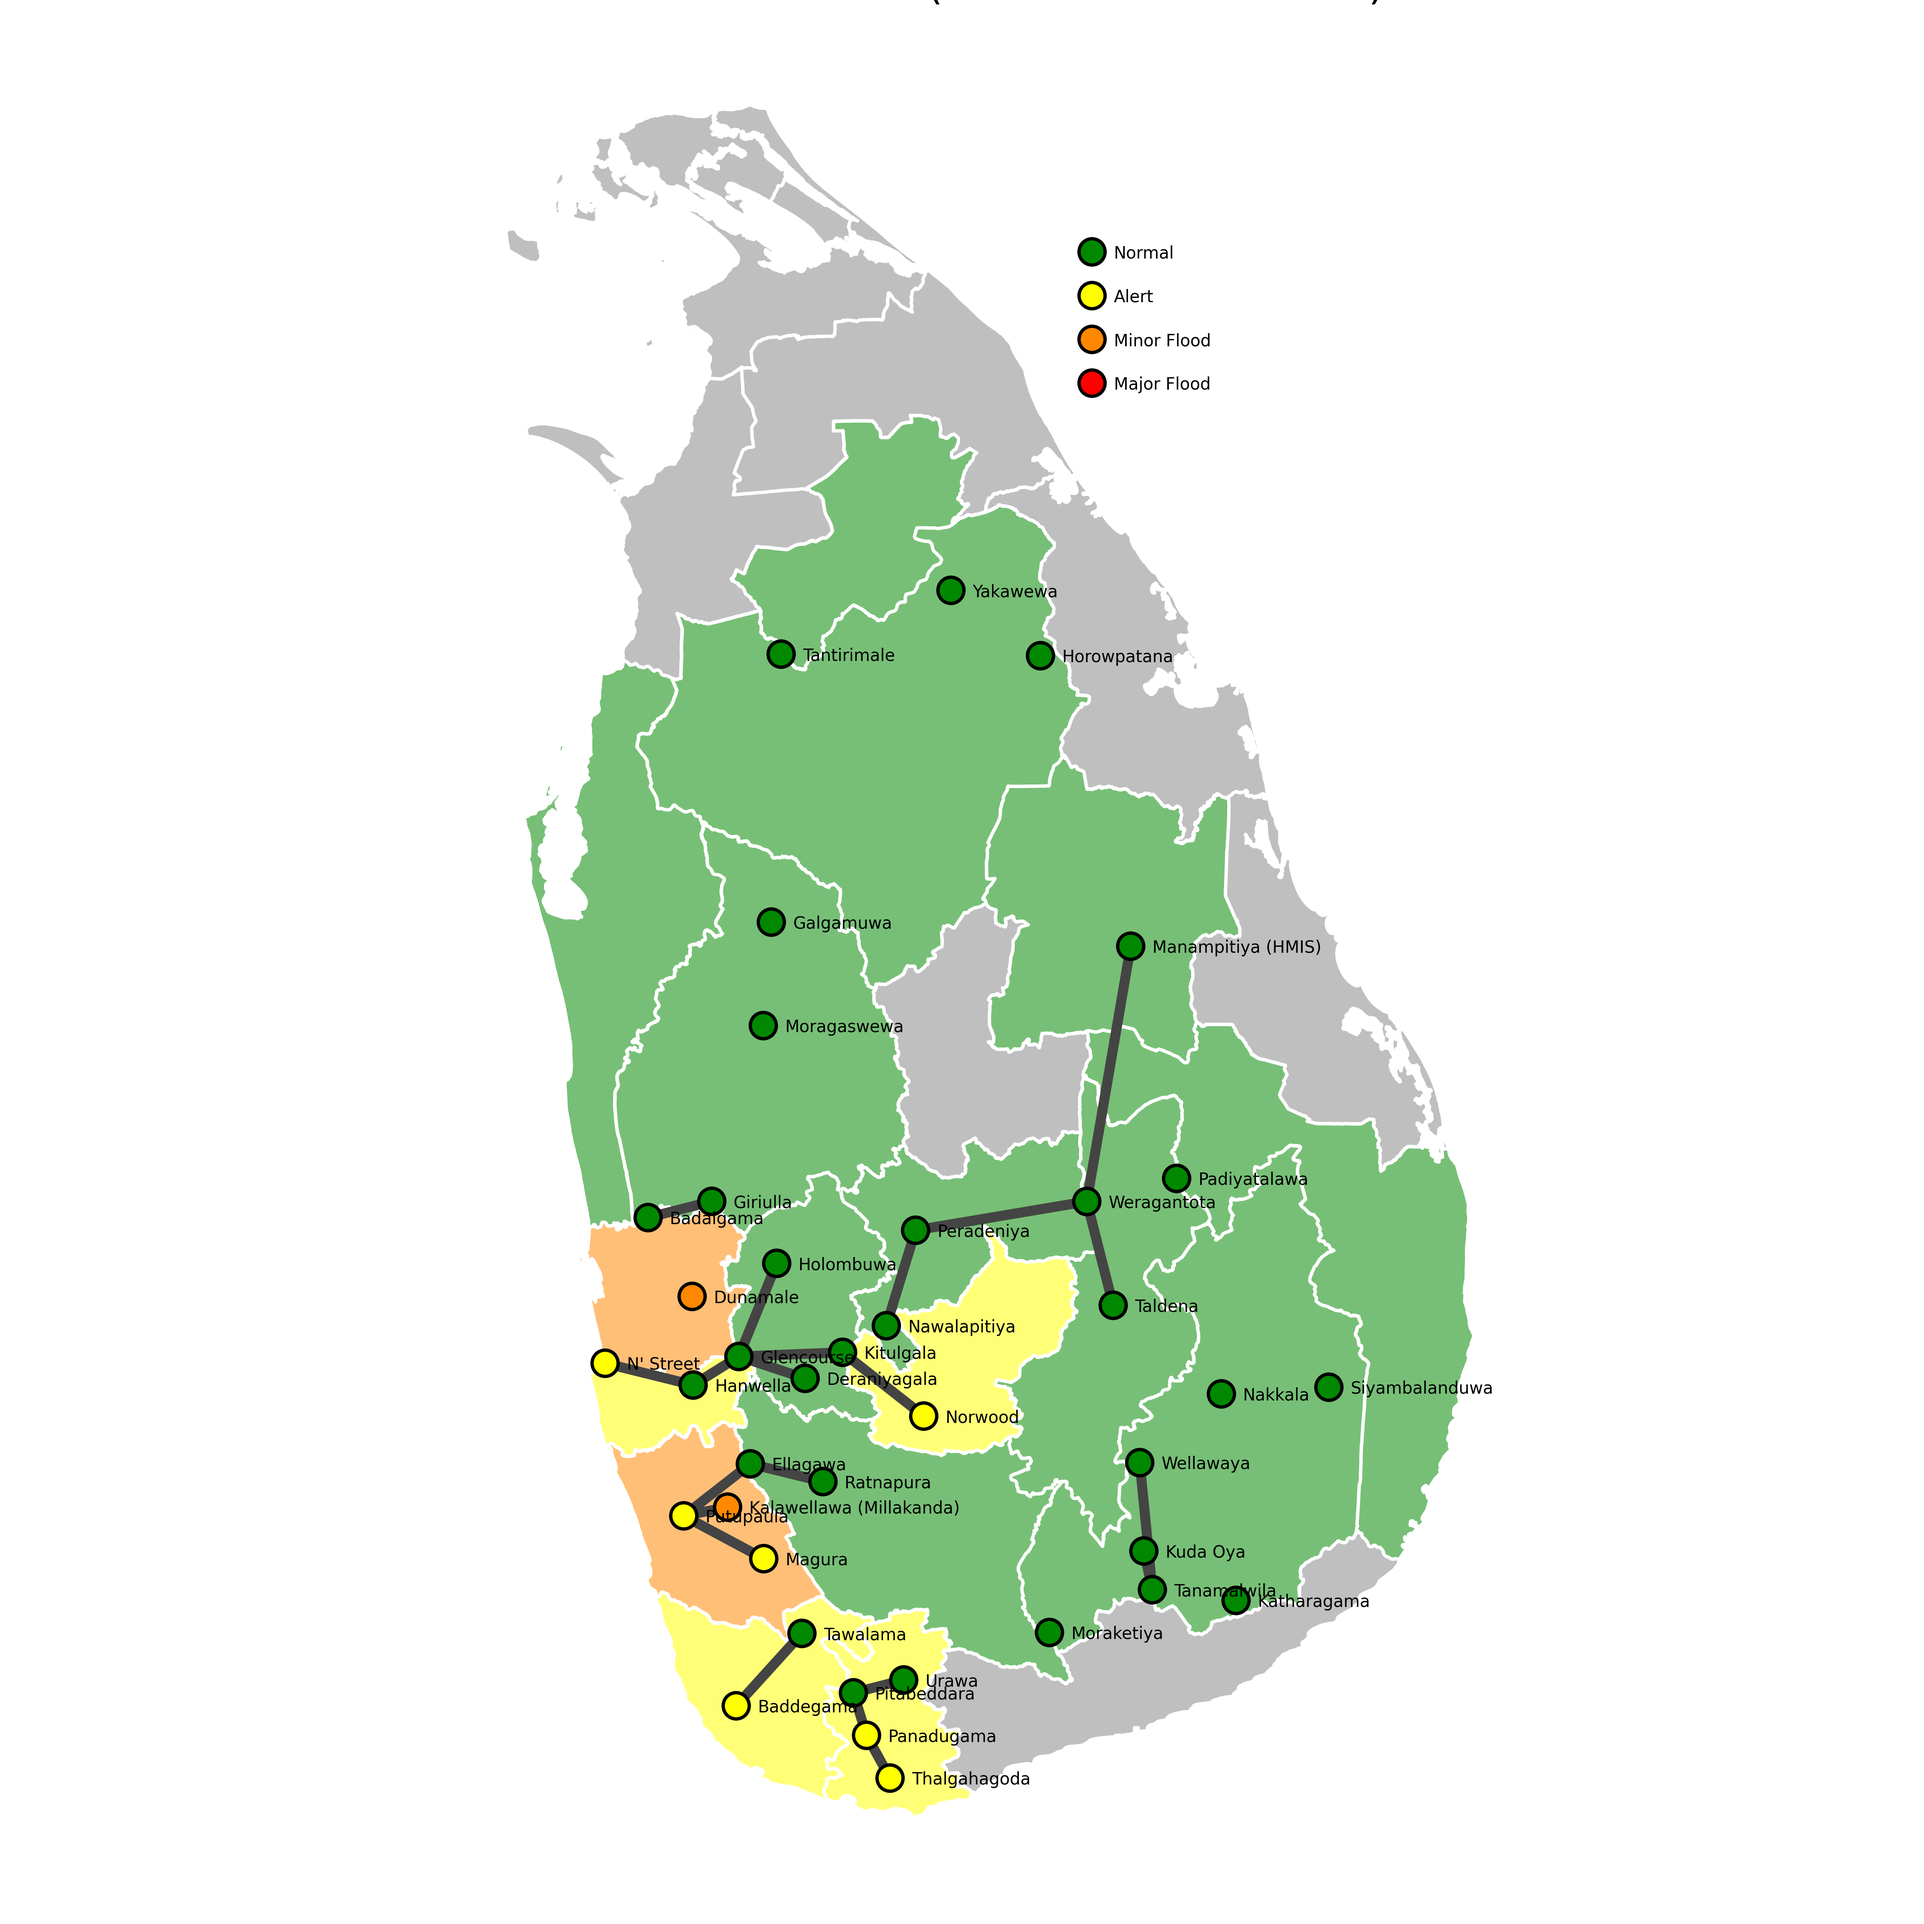
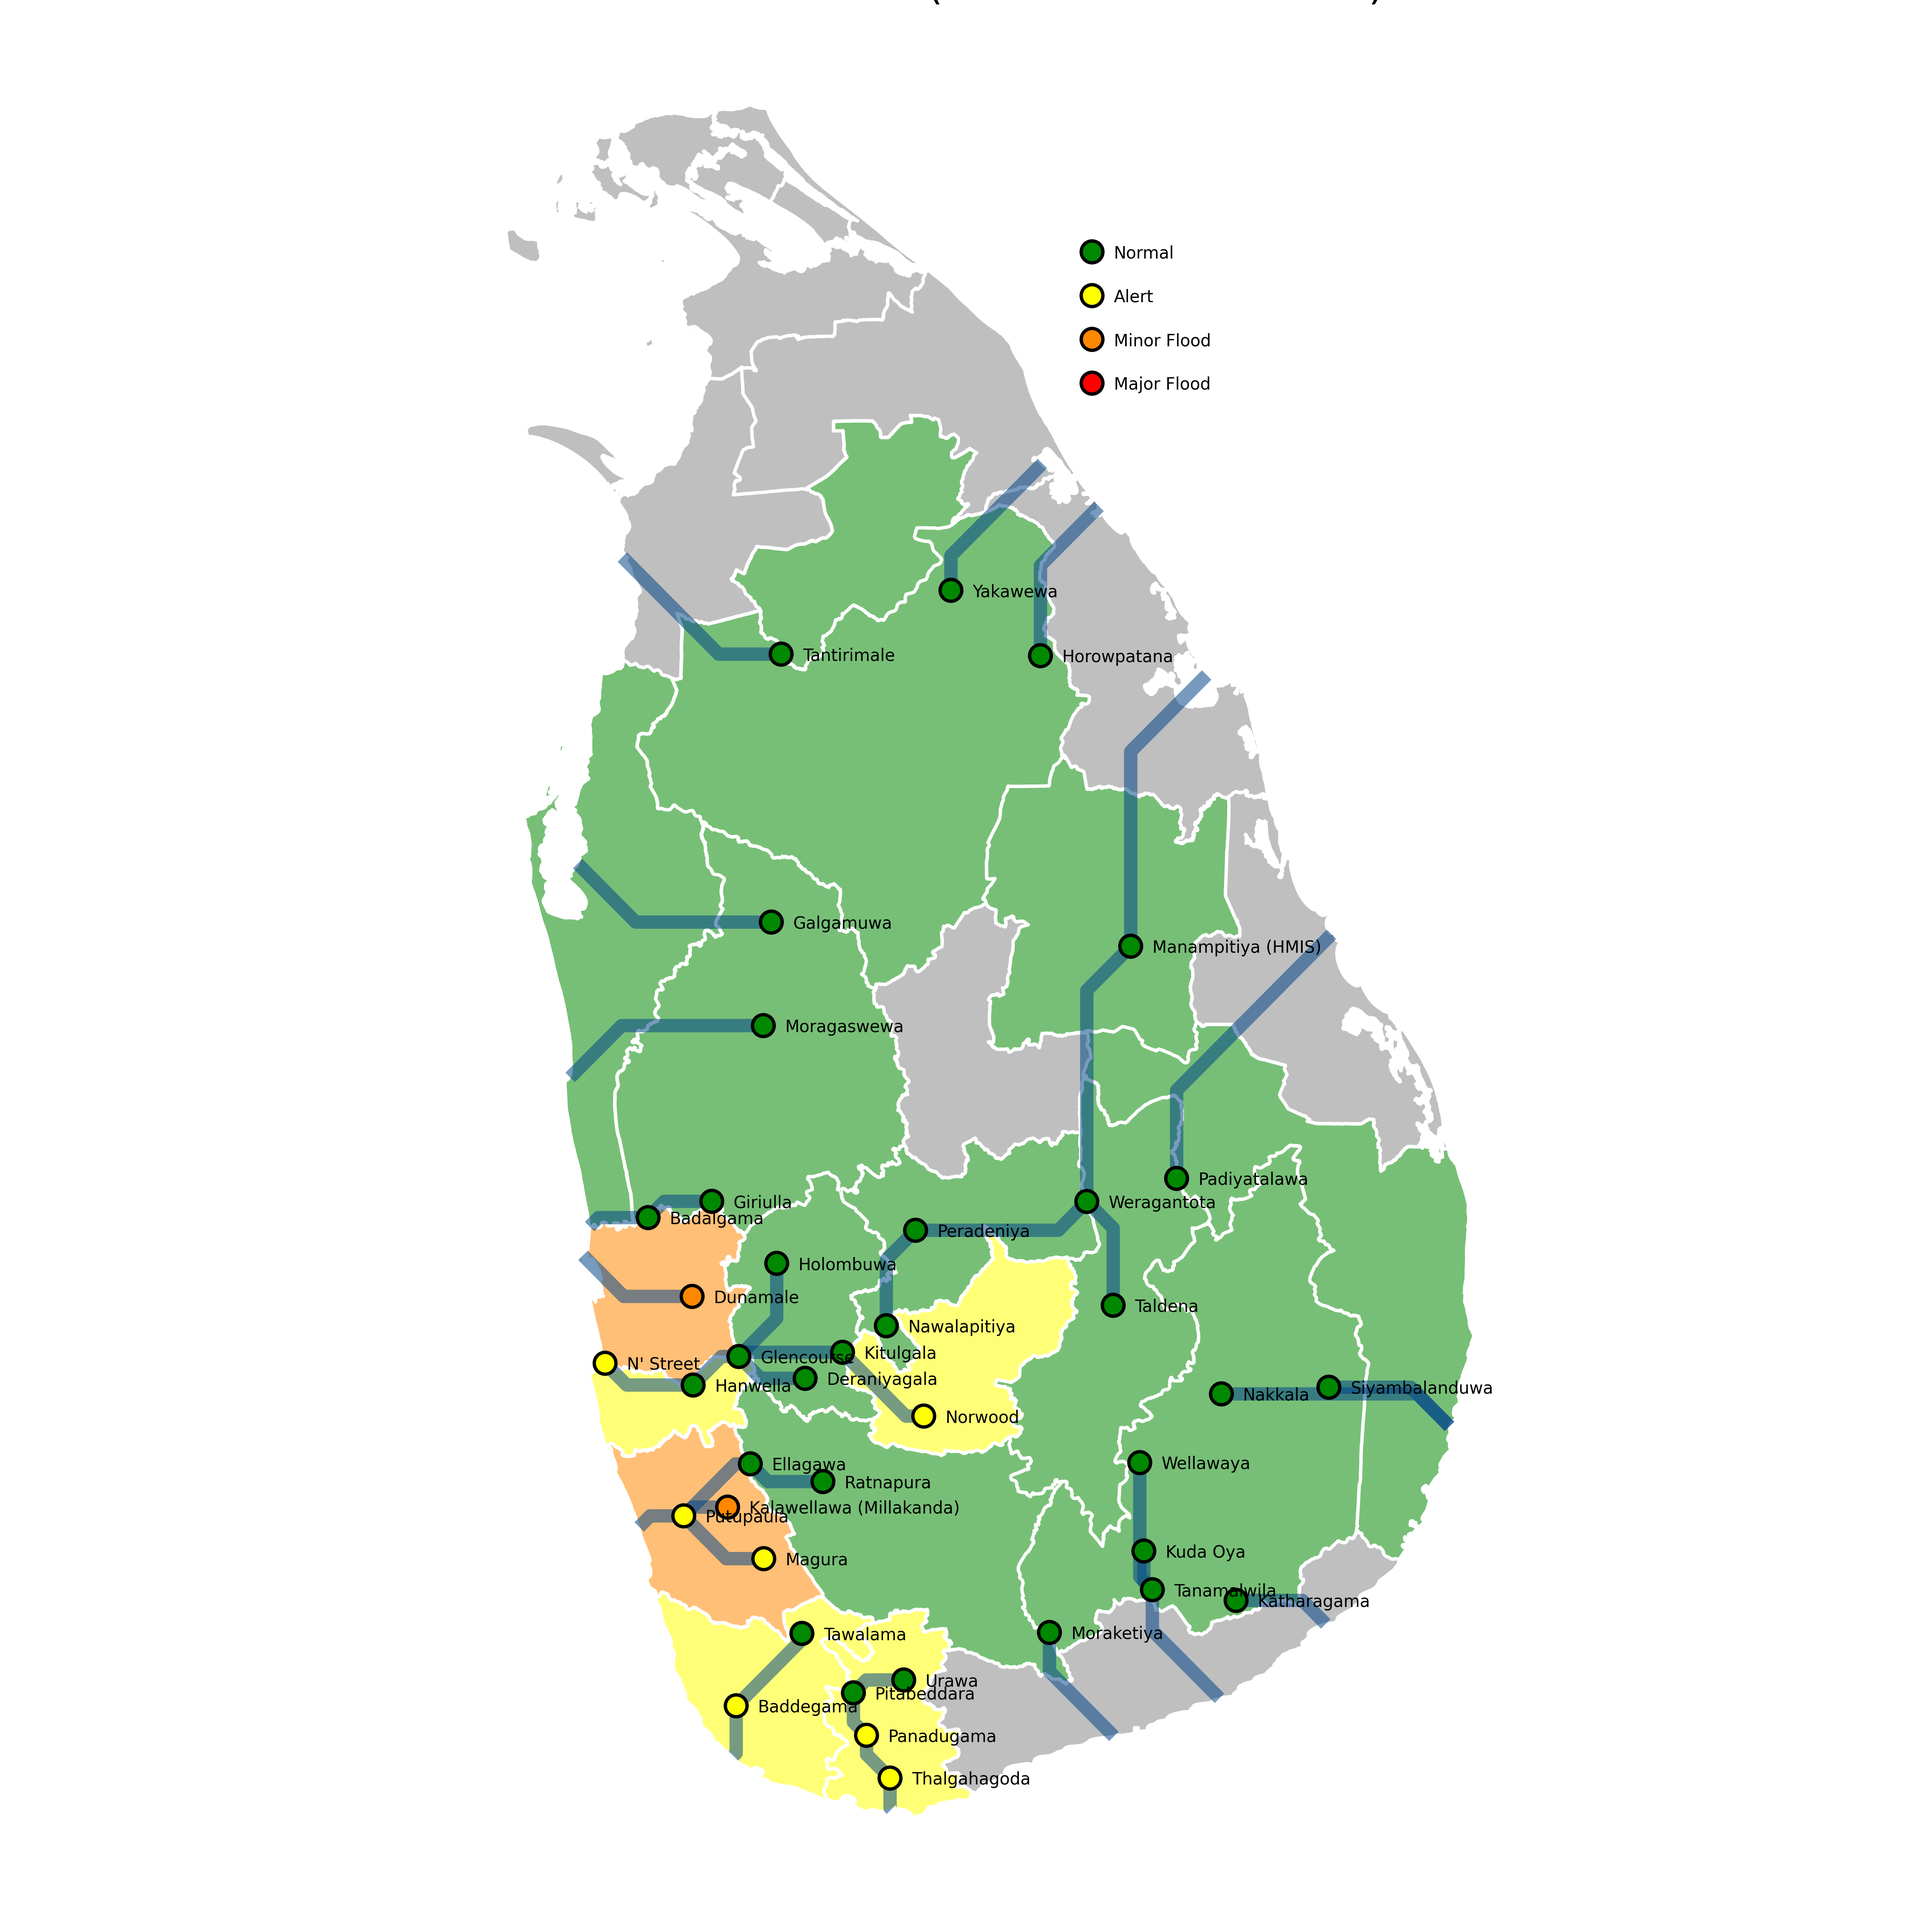
various

diff --git a/src/dmc/reports/RiverWaterLevelMap.py b/src/dmc/reports/RiverWaterLevelMap.py
@@ -2,8 +2,9 @@ import os
 
 import matplotlib.pyplot as plt
 from gig import Ent, EntType
-from utils import Log, Time, TimeFormat
 from matplotlib import collections as mc
+from utils import Log, Time, TimeFormat
+
 from dmc.core import RiverWaterLevel, Station
 
 log = Log('RiverWaterLevelMap')
@@ -11,6 +12,7 @@ log = Log('RiverWaterLevelMap')
 
 class RiverWaterLevelMap:
     ENT_TYPE = EntType.DISTRICT
+    CIRCLE_RADIUS = 0.025
 
     @property
     def image_path(self):
@@ -25,19 +27,32 @@ class RiverWaterLevelMap:
         ents = Ent.list_from_type(self.ENT_TYPE)
         rwl_list = RiverWaterLevel.list_from_latest()
 
-
-
-        lines  = []
-        for  station_names in Station.RIVERS.values():
+        lines = []
+        for station_names in Station.RIVERS.values():
             line = []
+
+            prev_point = None
             for station_name in station_names:
                 station = Station.from_name(station_name)
-                line.append([
-                    station.latLng.lng, station.latLng.lat
-                ])
+                point = [station.latLng.lng, station.latLng.lat]
+
+                if prev_point:
+                    x1, y1 = prev_point
+                    x2, y2 = point
+                    dx, dy = x2 - x1, y2 - y1
+                    if abs(dx) < abs(dy):
+                        x_mid = x1 + dx
+                        y_mid = y1 + abs(dx) * dy / abs(dy)
+                    else:
+                        x_mid = x1 + abs(dy) * dx / abs(dx)
+                        y_mid = y1 + dy
+                    line.append([x_mid, y_mid])
+
+                line.append(point)
+                prev_point = point
             lines.append(line)
-                
-        lc = mc.LineCollection(lines, colors='#444', linewidths=3)
+
+        lc = mc.LineCollection(lines, colors='#0488', linewidths=4)
         lc.set_zorder(2)
         fig, ax = plt.subplots()
         fig.set_size_inches(8, 8)
@@ -74,7 +89,7 @@ class RiverWaterLevelMap:
                 color = ['#080', '#ff0', '#f80', '#f00'][rwl.level]
                 circle = plt.Circle(
                     (station.latLng.lng, station.latLng.lat),
-                    0.03,
+                    self.CIRCLE_RADIUS,
                     facecolor=color,
                     edgecolor="black",
                 )
@@ -92,7 +107,10 @@ class RiverWaterLevelMap:
             lat = 9.5 - 0.1 * level
             color = ['#080', '#ff0', '#f80', '#f00'][level]
             circle = plt.Circle(
-                (lng, lat), 0.03, facecolor=color, edgecolor="black"
+                (lng, lat),
+                self.CIRCLE_RADIUS,
+                facecolor=color,
+                edgecolor="black",
             )
             ax.add_patch(circle)
             label = ['Normal', 'Alert', 'Minor Flood', "Major Flood"][level]
@@ -103,7 +121,14 @@ class RiverWaterLevelMap:
                 fontsize=5,
             )
         PADDING = 0.01
-        plt.subplots_adjust(left=PADDING, right=1-PADDING, top=1-PADDING, bottom=PADDING, wspace=PADDING*2, hspace=PADDING*2)
+        plt.subplots_adjust(
+            left=PADDING,
+            right=1 - PADDING,
+            top=1 - PADDING,
+            bottom=PADDING,
+            wspace=PADDING * 2,
+            hspace=PADDING * 2,
+        )
         ax.set_xticks([])
         ax.set_yticks([])
         ax.grid(False)

diff --git a/src/dmc/core/station/StationLinks.py b/src/dmc/core/station/StationLinks.py
@@ -1,6 +1,7 @@
 class StationLinks:
     RIVERS = {
         'Kelani': [
+            'Colombo',
             "N' Street",
             "Hanwella",
             "Glencourse",
@@ -19,6 +20,7 @@ class StationLinks:
             'Norwood',
         ],
         'Kalu Ganga': [
+            'Kalutara',
             'Putupaula',
             'Ellagawa',
             'Ratnapura',
@@ -27,15 +29,14 @@ class StationLinks:
             'Putupaula',
             'Magura',
         ],
-        'Kuda Ganga': [
-            'Putupaula',
-            'Kalawellawa (Millakanda)'
-        ],
+        'Kuda Ganga': ['Putupaula', 'Kalawellawa (Millakanda)'],
         'Gin Ganga': [
+            'Gintota',
             'Baddegama',
             'Tawalama',
         ],
         'Nilwala Ganga': [
+            'Matara',
             'Thalgahagoda',
             'Panadugama',
             'Pitabeddara',
@@ -44,10 +45,9 @@ class StationLinks:
             'Pitabeddara',
             'Urawa',
         ],
-        'Walawe Ganga': [
-            'Moraketiya'
-        ],
+        'Walawe Ganga': ['Ambalantota', 'Moraketiya'],
         'Kirindi Oya': [
+            'Kirinda',
             'Tanamalwila',
             'Wellawaya',
         ],
@@ -56,33 +56,37 @@ class StationLinks:
             'Kuda Oya',
         ],
         'Menik Ganga': [
+            'Yala',
             'Katharagama',
         ],
         'Heda Oya': [
+            'Arugam Bay',
             'Siyambalanduwa',
         ],
         'Maduru Oya': [
+            'Kalkudah',
             'Padiyatalawa',
         ],
+        'Kumbukkan Oya': [
+            'Arugam Bay',
+            'Nakkala',
+        ],
         'Mahaweli Ganga': [
+            'Trincomalee',
             'Manampitiya (HMIS)',
             'Weragantota',
             'Peradeniya',
             'Nawalapitiya',
-            
         ],
         'Badulu Oya': [
             'Weragantota',
             'Taldena',
         ],
-        'Yan Oya': ['Horowpatana'],
-        'Mukunu Oya': ['Yakawewa'],
-        'Malwathu Oya': ['Tantirimale'],
-        'Mee Oya': ['Galgamuwa'],
-        'Deduru Oya': ['Moragaswewa'],
-        'Maha Oya': ['Badalgama', 'Giriulla'],
-        'Attanagalu Oya': ['Dunamale'],
-
-
-      
+        'Yan Oya': ['Pulmoddai', 'Horowpatana'],
+        'Mukunu Oya': ['Kokkilai', 'Yakawewa'],
+        'Malwathu Oya': ['Vankalai', 'Tantirimale'],
+        'Mee Oya': ['Puttalam', 'Galgamuwa'],
+        'Deduru Oya': ['Chilaw', 'Moragaswewa'],
+        'Maha Oya': ['Kochchikade', 'Badalgama', 'Giriulla'],
+        'Attanagalu Oya': ['Negombo', 'Dunamale'],
     }

diff --git a/src/dmc/core/station/StationDummy.py b/src/dmc/core/station/StationDummy.py
@@ -1,0 +1,59 @@
+from utils_future import LatLng
+
+
+class StationDummy:
+    @classmethod
+    def list_all_dummy(cls):
+        return [
+            cls.dummy(
+                'Colombo', LatLng(6.979094803911703, 79.86979574279339)
+            ),
+            cls.dummy(
+                'Kalutara', LatLng(6.586233701047157, 79.95717564003346)
+            ),
+            cls.dummy(
+                'Trincomalee', LatLng(8.53304284725816, 81.26385044889133)
+            ),
+            cls.dummy('Gintota', LatLng(6.06281446318493, 80.17408845037367)),
+            cls.dummy('Matara', LatLng(5.94125560680328, 80.53812578991025)),
+            cls.dummy(
+                'Ambalantota', LatLng(6.107647576360852, 81.05029286051283)
+            ),
+            cls.dummy(
+                'Kirinda', LatLng(6.194772632777804, 81.29341879397064)
+            ),
+            cls.dummy('Yala', LatLng(6.364615249121397, 81.53804157548875)),
+            cls.dummy(
+                'Arugam Bay', LatLng(6.81607800117203, 81.8232377069113)
+            ),
+            cls.dummy(
+                'Kalkudah', LatLng(7.940520517524321, 81.55139931294406)
+            ),
+            cls.dummy(
+                'Pulmoddai', LatLng(8.918316148045907, 81.01609289069512)
+            ),
+            cls.dummy(
+                'Vankalai',
+                LatLng(8.802644113443238, 79.91839691571735),
+            ),
+            cls.dummy(
+                'Chilaw',
+                LatLng(7.613447600108512, 79.7982666610457),
+            ),
+            cls.dummy(
+                'Kochchikade',
+                LatLng(7.272648499907399, 79.84288403277398),
+            ),
+            cls.dummy(
+                'Negombo',
+                LatLng(7.206810419406433, 79.82769525874056),
+            ),
+            cls.dummy(
+                'Puttalam',
+                LatLng(8.101974738017296, 79.81546247103633),
+            ),
+            cls.dummy(
+                'Kokkilai',
+                LatLng(9.016296922963633, 80.88567631969876),
+            ),
+        ]

diff --git a/src/dmc/core/station/Station.py b/src/dmc/core/station/Station.py
@@ -5,6 +5,7 @@ from functools import cache
 from utils import JSONFile, Log
 
 from dmc.core.station.StationDistrictData import StationDistrictData
+from dmc.core.station.StationDummy import StationDummy
 from dmc.core.station.StationLatLngData import StationLatLngData
 from dmc.core.station.StationLinks import StationLinks
 from utils_future import LatLng
@@ -13,7 +14,9 @@ log = Log('Station')
 
 
 @dataclass
-class Station(StationLatLngData, StationDistrictData, StationLinks):
+class Station(
+    StationLatLngData, StationDistrictData, StationLinks, StationDummy
+):
     DATA_PATH = os.path.join('data-static', 'stations.json')
 
     river_basin: str
@@ -38,6 +41,19 @@ class Station(StationLatLngData, StationDistrictData, StationLinks):
         }
 
     @staticmethod
+    def dummy(name, latLng):
+        return Station(
+            river_basin='Dummy',
+            river='Dummy',
+            name=name,
+            district_id='LK-XX',
+            latLng=latLng,
+            alert_level=0,
+            minor_flood_level=0,
+            major_flood_level=0,
+        )
+
+    @staticmethod
     def from_dict(data: dict) -> 'Station':
         return Station(
             river_basin=data['river_basin'],
@@ -52,7 +68,7 @@ class Station(StationLatLngData, StationDistrictData, StationLinks):
 
     @staticmethod
     def from_name(station_name: str) -> 'Station':
-        all = Station.list_all()
+        all = Station.list_all() + Station.list_all_dummy()
         for station in all:
             if station.name == station_name:
                 return station

diff --git a/src/dmc/__init__.py b/src/dmc/__init__.py
@@ -1,6 +1,7 @@
 # dmc (auto generate by build_inits.py)
 
 from dmc.core import (RiverWaterLevel, RiverWaterLevelParser, Station,
-                      StationDistrictData, StationLatLngData, StationLinks)
+                      StationDistrictData, StationDummy, StationLatLngData,
+                      StationLinks)
 from dmc.downloaders import GenericDownloader
 from dmc.reports import AlertReport, ReadMe, RiverWaterLevelMap

diff --git a/src/dmc/core/__init__.py b/src/dmc/core/__init__.py
@@ -2,5 +2,5 @@
 
 from dmc.core.RiverWaterLevel import RiverWaterLevel
 from dmc.core.RiverWaterLevelParser import RiverWaterLevelParser
-from dmc.core.station import (Station, StationDistrictData, StationLatLngData,
-                              StationLinks)
+from dmc.core.station import (Station, StationDistrictData, StationDummy,
+                              StationLatLngData, StationLinks)

diff --git a/src/dmc/core/station/__init__.py b/src/dmc/core/station/__init__.py
@@ -2,5 +2,6 @@
 
 from dmc.core.station.Station import Station
 from dmc.core.station.StationDistrictData import StationDistrictData
+from dmc.core.station.StationDummy import StationDummy
 from dmc.core.station.StationLatLngData import StationLatLngData
 from dmc.core.station.StationLinks import StationLinks
